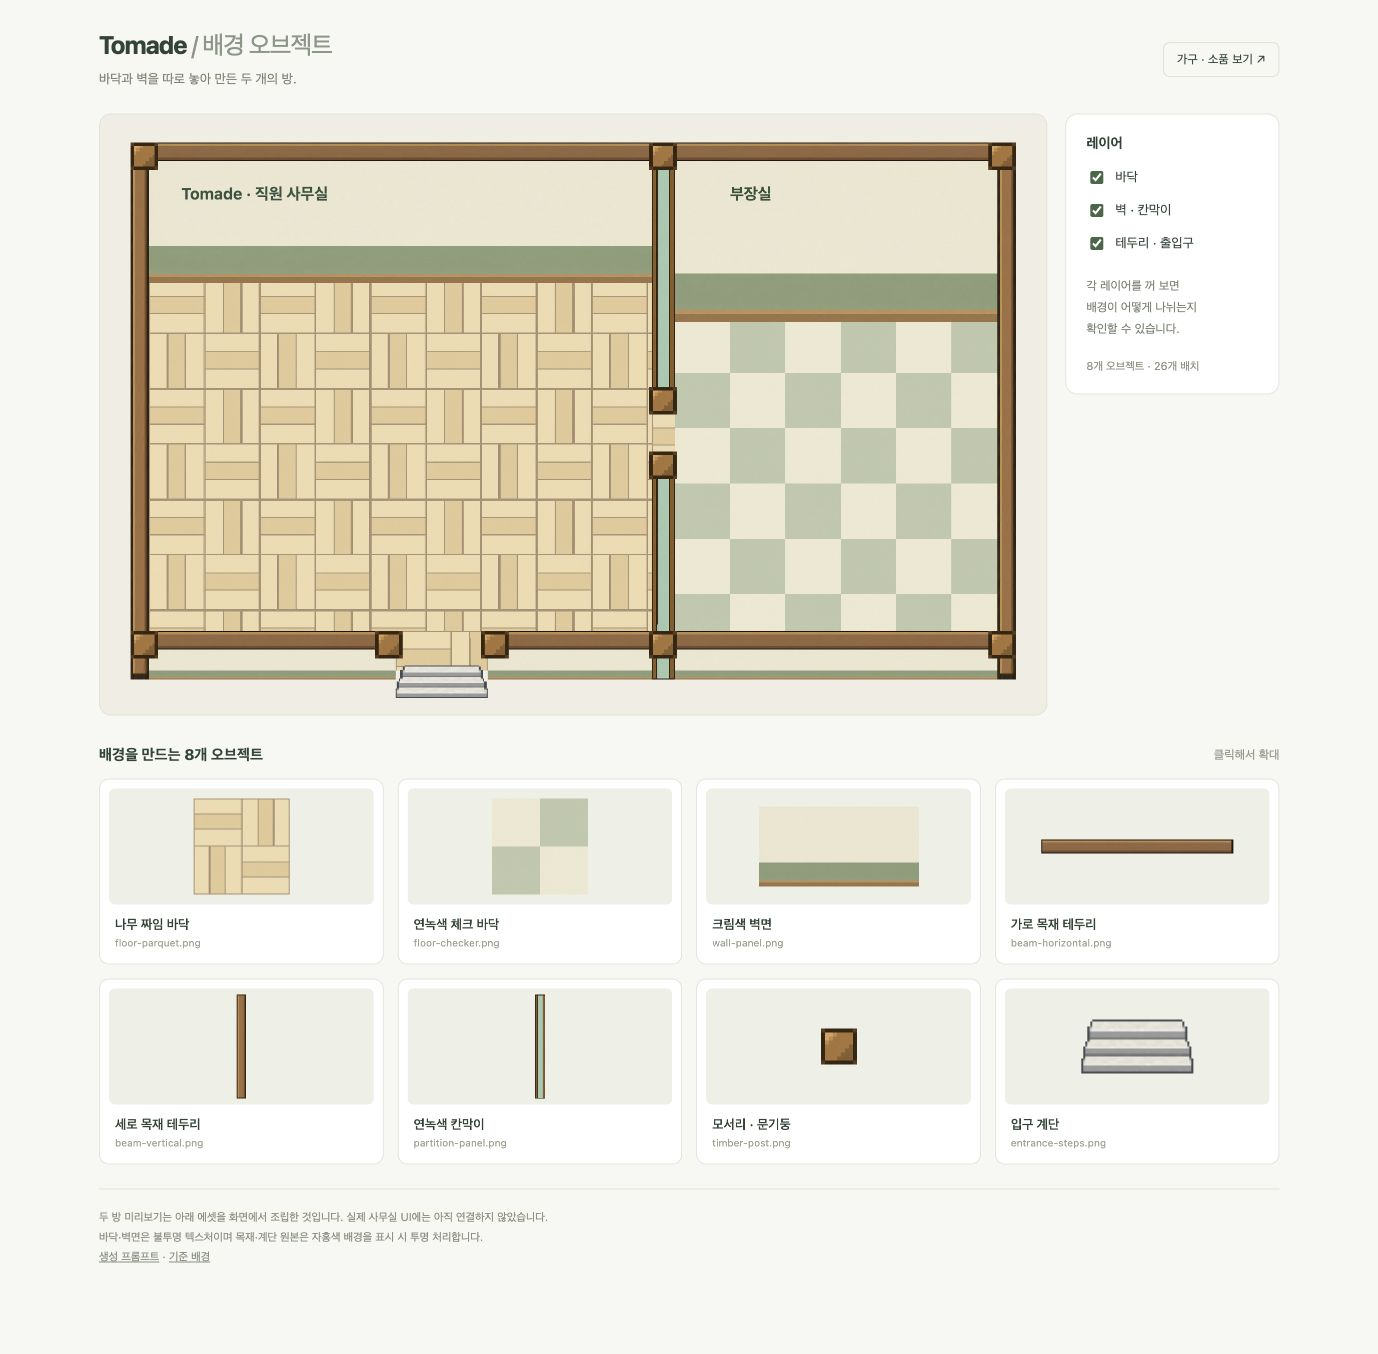
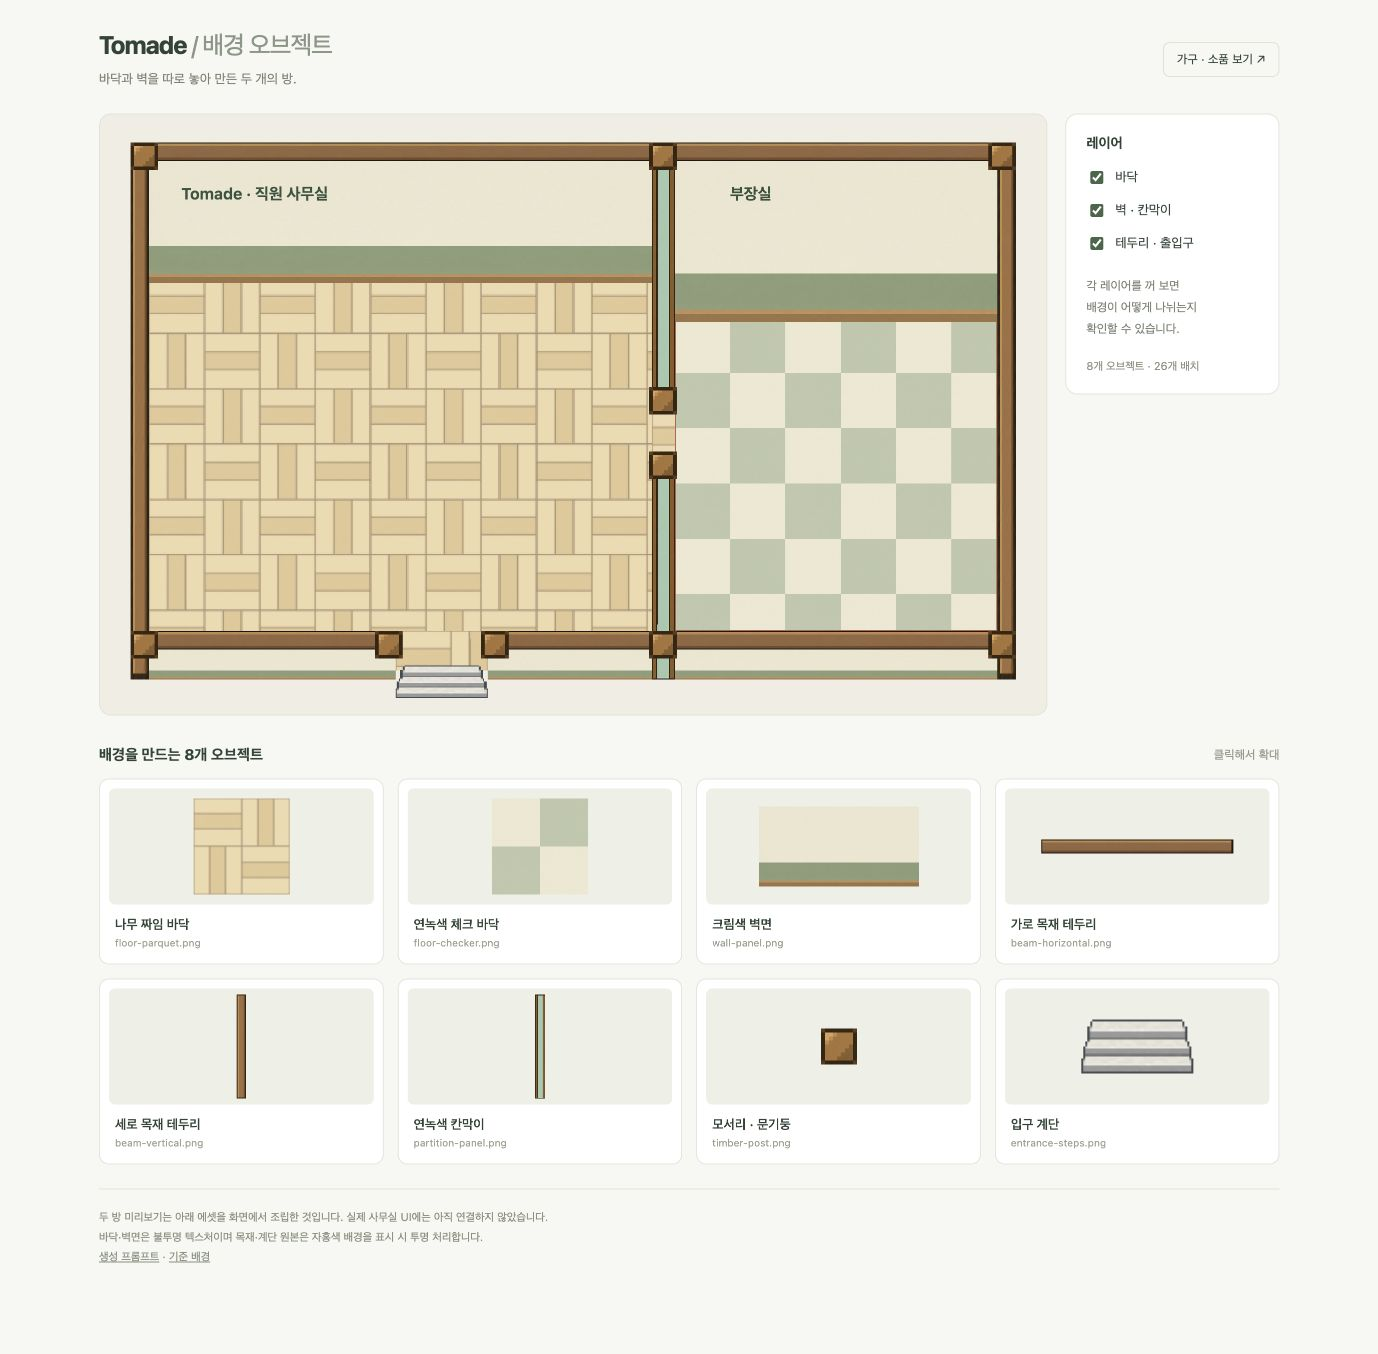
fix(assets): 나무 바닥 축소 시 경계선 굵기 보정

Changed region(s): [[0.3433, 0.3412, 0.3745, 0.3722]]

diff --git a/frontend/assets/office-environment-v1/index.html b/frontend/assets/office-environment-v1/index.html
@@ -79,7 +79,10 @@
         ctx.putImageData(pixels,0,0);
       }
       const out=document.createElement('canvas'); out.width=asset.width; out.height=Math.max(1,Math.round(asset.width*(bottom-top+1)/(right-left+1)));
-      const target=out.getContext('2d'); target.imageSmoothingEnabled=false;
+      const target=out.getContext('2d');
+      // Filter thin parquet seams during reduction; room scaling stays pixelated.
+      target.imageSmoothingEnabled=asset.id==='floor-parquet';
+      target.imageSmoothingQuality='high';
       target.drawImage(source,left,top,right-left+1,bottom-top+1,0,0,out.width,out.height);
       return out;
     }
